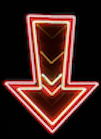
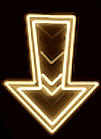
yellow arronw

diff --git a/projects/maxims/assets/css/styles.css b/projects/maxims/assets/css/styles.css
@@ -76,7 +76,7 @@ body {
     color: #ebeb93;
     font-size: 2vw;
     line-height: 9vw;
-    text-shadow: 0 0 5vw yellow;  
+    text-shadow: 0 0 5vw rgb(230, 230, 163);  
     margin-bottom: 0px;
     margin-top: 400px;
 
